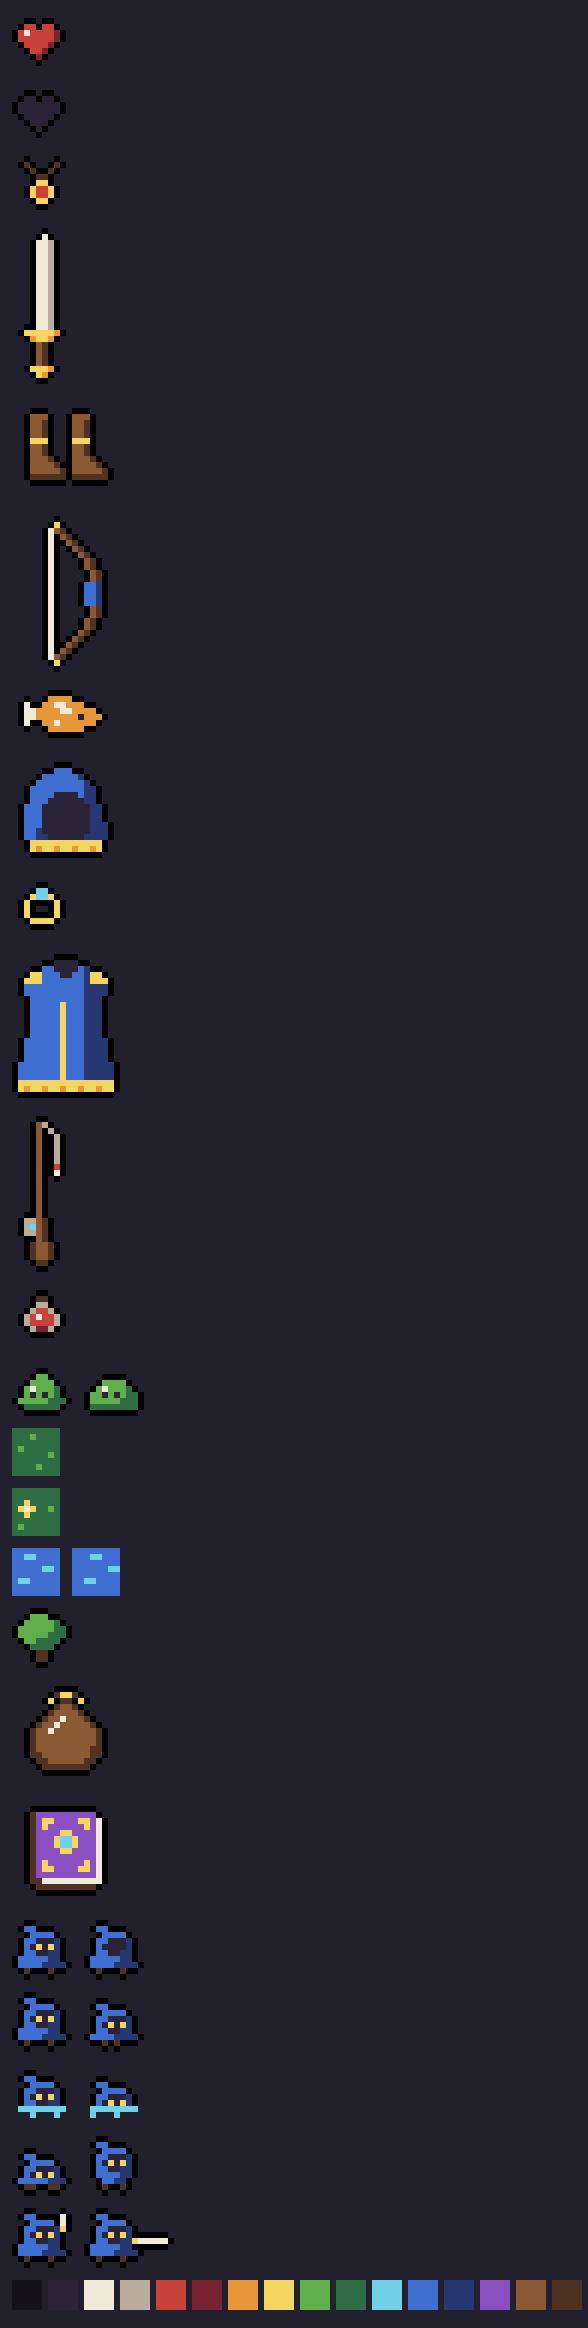
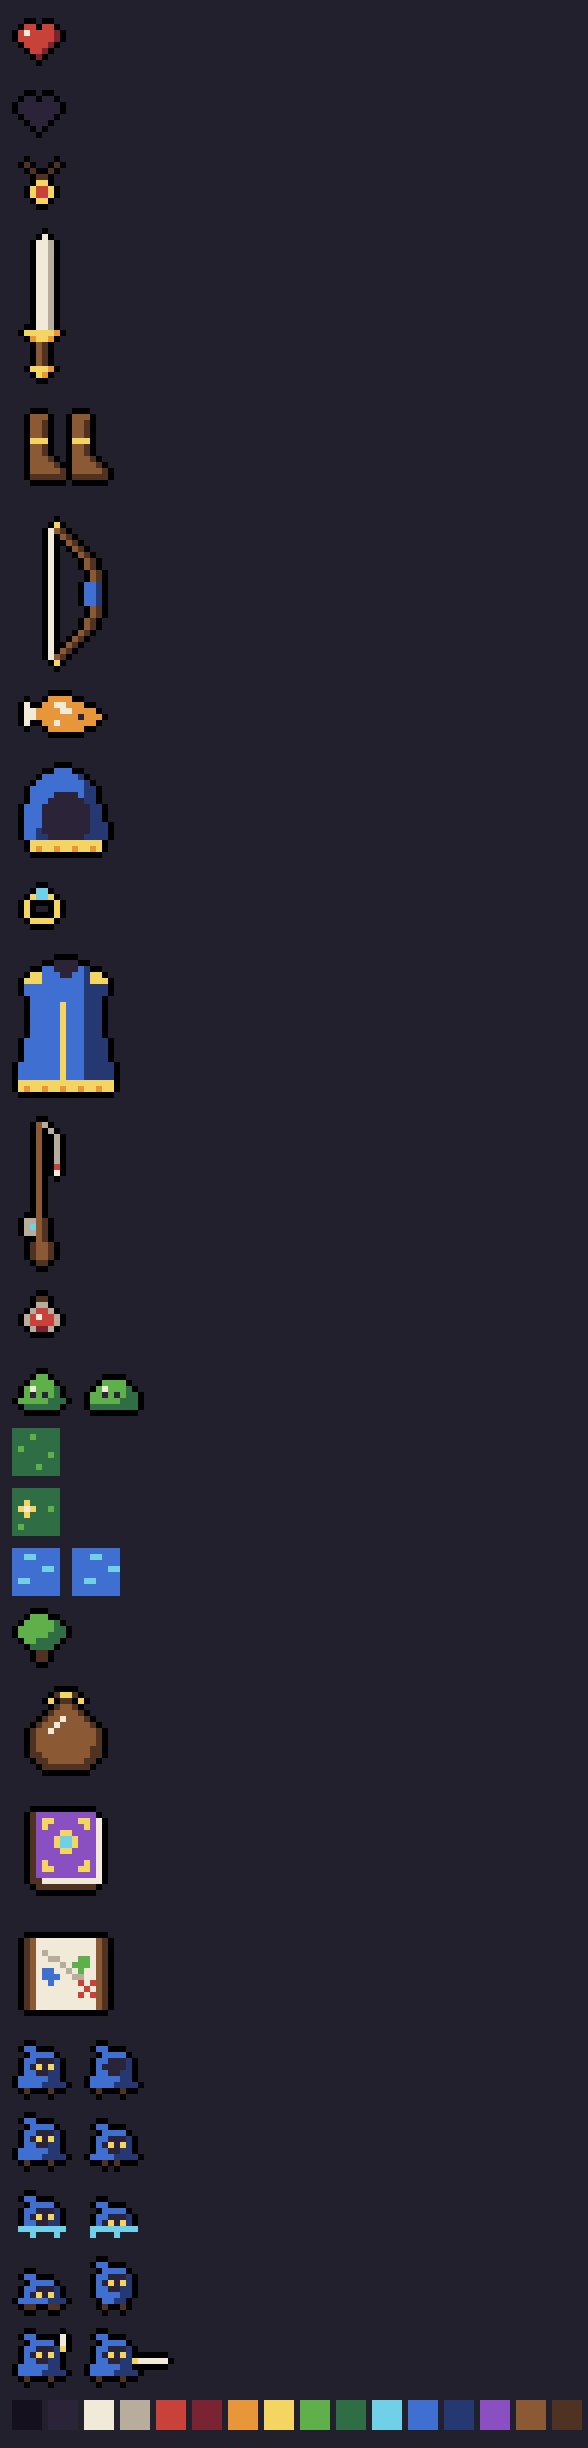
Add a map (M) to the menu bar, and grey out the journal for now
The map shows Greenhollow, the one area so far, drawn on parchment from the
tile map (ground, groves, water with shorelines, aged edges), with the camp
and a gold arrow for you and your facing, updated live while it's open.
New pixel-art map icon in art/ui.

The journal button is greyed out with a "Coming Soon" tooltip; L and the
discovery toasts are off (FEATURES.journal). Kills are still counted and
saved so nothing is lost when it's switched on.

Menu buttons no longer take focus when clicked, so Space and Enter can't
press them again.

Changed region(s): [[0.0, 0.0, 0.3061, 0.9897]]

diff --git a/src/ui/mapView.ts b/src/ui/mapView.ts
@@ -1,0 +1,129 @@
+// The map (M): the area drawn on parchment, with you and the camp marked. The terrain is drawn once
+// per map; the markers are redrawn every frame while the map is open.
+import { PAL } from "../data/palette.ts";
+import { AREA_NAME, CAMP, HALF, T, Tile } from "../data/world.ts";
+import type { Game } from "../game/game.ts";
+import type { TileMap } from "../world/map.ts";
+import { byId, markHandled } from "./dom.ts";
+
+/** Map pixels per tile. The canvas is shown at one UI pixel per map pixel, so it stays crisp. */
+const S = 3;
+
+const INK = {
+  paper: "#e8dcc0",
+  ground: "#cbc493",
+  groundDot: "#bdb682",
+  water: "#86a7c4",
+  shore: "#5f7fa0",
+  tree: "#7d8f5a",
+  treeDot: "#5f6f45",
+  edge: "rgba(90, 56, 38, 0.35)",
+};
+
+/** Deterministic per-tile noise, so the hand-drawn texture is the same every time. */
+const hash = (x: number, y: number) => { const s = Math.sin(x * 127.1 + y * 311.7) * 43758.5453; return s - Math.floor(s); };
+
+export interface MapView {
+  toggle(): void;
+  close(): void;
+  isOpen(): boolean;
+  /** Redraw the markers (call every frame; does nothing while closed). */
+  draw(): void;
+}
+
+function drawTerrain(c: HTMLCanvasElement, map: TileMap): void {
+  c.width = map.width * S;
+  c.height = map.height * S;
+  const g = c.getContext("2d")!;
+  g.fillStyle = INK.paper;
+  g.fillRect(0, 0, c.width, c.height);
+  const at = (x: number, y: number) => (x < 0 || y < 0 || x >= map.width || y >= map.height ? Tile.Tree : map.tiles[y]![x]!);
+  for (let y = 0; y < map.height; y++) for (let x = 0; x < map.width; x++) {
+    const t = at(x, y), px = x * S, py = y * S;
+    if (t === Tile.Water) {
+      g.fillStyle = INK.water;
+      g.fillRect(px, py, S, S);
+      // A darker line where the water meets land.
+      g.fillStyle = INK.shore;
+      if (at(x, y - 1) !== Tile.Water) g.fillRect(px, py, S, 1);
+      if (at(x, y + 1) !== Tile.Water) g.fillRect(px, py + S - 1, S, 1);
+      if (at(x - 1, y) !== Tile.Water) g.fillRect(px, py, 1, S);
+      if (at(x + 1, y) !== Tile.Water) g.fillRect(px + S - 1, py, 1, S);
+    } else if (t === Tile.Tree) {
+      g.fillStyle = INK.tree;
+      g.fillRect(px, py, S, S);
+      g.fillStyle = INK.treeDot;                             // a scatter of canopy dots
+      g.fillRect(px + Math.floor(hash(x, y) * S), py + Math.floor(hash(y, x) * S), 1, 1);
+    } else {
+      g.fillStyle = INK.ground;
+      g.fillRect(px, py, S, S);
+      if (hash(x, y) < 0.15) { g.fillStyle = INK.groundDot; g.fillRect(px + 1, py + 1, 1, 1); }
+    }
+  }
+  // Aged edges.
+  const grad = g.createRadialGradient(c.width / 2, c.height / 2, Math.min(c.width, c.height) * 0.35, c.width / 2, c.height / 2, Math.max(c.width, c.height) * 0.62);
+  grad.addColorStop(0, "rgba(0,0,0,0)");
+  grad.addColorStop(1, INK.edge);
+  g.fillStyle = grad;
+  g.fillRect(0, 0, c.width, c.height);
+}
+
+export function createMapView(g: Game): MapView {
+  const panel = byId("map"), base = byId<HTMLCanvasElement>("mapBase"), marks = byId<HTMLCanvasElement>("mapMarks");
+  byId("mapTitle").textContent = AREA_NAME.toUpperCase();
+  const mg = marks.getContext("2d")!;
+  /** A game position (cell top-left) -> map pixels, at the cell's centre. */
+  const toMap = (x: number, y: number) => [((x + HALF) / T) * S, ((y + HALF) / T) * S] as const;
+
+  const setMap = (map: TileMap) => {
+    drawTerrain(base, map);
+    marks.width = base.width;
+    marks.height = base.height;
+  };
+  setMap(g.map);
+  g.events.on("reset", ({ map }) => setMap(map));
+
+  /** A filled shape with a 1px ink outline. */
+  const shape = (points: (readonly [number, number])[], fill: string) => {
+    mg.beginPath();
+    points.forEach(([x, y], i) => (i ? mg.lineTo(x, y) : mg.moveTo(x, y)));
+    mg.closePath();
+    mg.fillStyle = fill;
+    mg.fill();
+    mg.strokeStyle = PAL.K;
+    mg.lineWidth = 1;
+    mg.stroke();
+  };
+
+  function drawMarks(): void {
+    mg.clearRect(0, 0, marks.width, marks.height);
+    // The camp: a little tent, and the fire beside it.
+    const [tx, ty] = toMap(CAMP.tent.x + CAMP.tent.w / 2 - HALF, CAMP.tent.y + CAMP.tent.h / 2 - HALF);
+    shape([[tx - 3.5, ty + 2.5], [tx, ty - 3.5], [tx + 3.5, ty + 2.5]], "#d8c8a0");
+    const [fx, fy] = toMap(CAMP.fire.x, CAMP.fire.y);
+    mg.fillStyle = PAL.K; mg.fillRect(Math.round(fx) - 2, Math.round(fy) - 2, 4, 4);
+    mg.fillStyle = PAL.O; mg.fillRect(Math.round(fx) - 1, Math.round(fy) - 1, 2, 2);
+    // You: a gold arrow pointing the way you're facing, gently pulsing.
+    const p = g.world.get(g.player, "transform"), motion = g.world.get(g.player, "motion");
+    if (!p || !motion) return;
+    const [px, py] = toMap(p.x, p.y), a = motion.aim, r = 4 + Math.sin(performance.now() / 200) * 0.5;
+    const pt = (ang: number, d: number) => [px + Math.cos(a + ang) * d, py + Math.sin(a + ang) * d] as const;
+    shape([pt(0, r), pt(2.5, r * 0.8), pt(0, -r * 0.2), pt(-2.5, r * 0.8)], PAL.Y);
+  }
+
+  function setOpen(open: boolean): void {
+    panel.hidden = !open;
+    if (open) drawMarks();
+  }
+
+  panel.addEventListener("mousedown", ev => { markHandled(ev); ev.preventDefault(); });   // and never take focus
+  panel.addEventListener("contextmenu", ev => ev.preventDefault());
+  panel.querySelector(".map-close")!.addEventListener("click", () => setOpen(false));
+
+  return {
+    toggle: () => setOpen(Boolean(panel.hidden)),
+    close: () => setOpen(false),
+    isOpen: () => !panel.hidden,
+    draw: () => { if (!panel.hidden) drawMarks(); },
+  };
+}

diff --git a/src/main.ts b/src/main.ts
@@ -16,6 +16,8 @@ import { bindOverlay, bindToasts, createResetBar } from "./ui/screens.ts";
 import { bakeItemIcons } from "./ui/sprites.ts";
 import { createJournal } from "./ui/journal.ts";
 import { createMenuBar } from "./ui/menuBar.ts";
+import { createMapView } from "./ui/mapView.ts";
+import { FEATURES } from "./data/features.ts";
 
 const g = createGame();
 const view = createRenderer(byId<HTMLCanvasElement>("screen"), g);
@@ -28,15 +30,20 @@ const labels = createLabels(g, view);
 const resetBar = createResetBar(g);
 bindOverlay(g);
 bindToasts(g);
+const MENU = { inventory: 0, map: 1, journal: 2 } as const;
 const menu = createMenuBar([
   { icon: "bag", label: "Inventory", key: "I", onClick: () => inventory.toggle() },
-  { icon: "book", label: "Journal", key: "L", onClick: () => journal.toggle() },
+  { icon: "map", label: "Map", key: "M", onClick: () => map.toggle() },
+  { icon: "book", label: "Journal", key: "L", onClick: () => journal.toggle(), ...(FEATURES.journal ? {} : { disabled: "Coming Soon" }) },
 ]);
-const journal = createJournal(g, unread => menu.setAlert(1, unread));
-const closePanels = () => { inventory.close(); journal.close(); };
+const map = createMapView(g);
+// The journal still loads and saves kill counts while it's switched off, so nothing is lost.
+const journal = createJournal(g, unread => menu.setAlert(MENU.journal, unread && FEATURES.journal));
+const toggleJournal = () => { if (FEATURES.journal) journal.toggle(); };
+const closePanels = () => { inventory.close(); journal.close(); map.close(); };
 g.events.on("reset", () => inventory.close());
 g.events.on("state", ({ state }) => { if (state === "dead") closePanels(); });
-const input = bindInput(g, { toggleInventory: inventory.toggle, toggleJournal: journal.toggle, closePanels });
+const input = bindInput(g, { toggleInventory: inventory.toggle, toggleJournal, toggleMap: map.toggle, closePanels });
 
 function resize(): void {
   const pixelSize = Math.max(2, Math.round(innerHeight / 300));
@@ -59,8 +66,10 @@ function frame(now: number): void {
   updateTarget(g, view, mouse, input.overUi());
   step(g, dt);
   view.render(g, g.hitstop > 0 ? 0 : dt);
-  menu.setActive(0, inventory.isOpen());
-  menu.setActive(1, journal.isOpen());
+  menu.setActive(MENU.inventory, inventory.isOpen());
+  menu.setActive(MENU.map, map.isOpen());
+  menu.setActive(MENU.journal, journal.isOpen());
+  map.draw();
   hud.draw(menu.width());
   labels.draw();
   resetBar.draw();

diff --git a/src/styles.css b/src/styles.css
@@ -165,3 +165,33 @@ canvas { display: block; position: fixed; inset: 0; width: 100%; height: 100%; i
   text-shadow: var(--u) var(--u) 0 var(--ink);
 }
 .journal-close:hover { color: var(--bone); }
+
+/* Greyed out: not available yet. */
+.bar-btn.disabled { cursor: default; background: #1a1622; }
+.bar-btn.disabled img { filter: grayscale(1) brightness(0.55); }
+.bar-btn.disabled .key { opacity: 0.45; }
+.bar-btn.disabled:hover { box-shadow: inset 0 0 0 1px var(--oak); }
+.bar-btn.disabled:hover img { filter: grayscale(1) brightness(0.55); }
+.bar-btn.disabled:active img { transform: none; }
+
+/* ---------- Map ---------- */
+#map {
+  position: fixed; left: 50%; top: 50%; transform: translate(-50%, -50%); z-index: 20; cursor: default;
+  padding: calc(var(--u) * 4) calc(var(--u) * 6) calc(var(--u) * 6);
+  background: linear-gradient(#5a3826, #3a2418);                 /* a wooden frame */
+  border: 2px solid var(--ink);
+  box-shadow: inset 0 0 0 1px var(--oak), inset 0 0 0 3px #2a1810, 0 12px 32px rgb(0 0 0 / 0.6);
+}
+#map[hidden] { display: none; }
+#map h2 {
+  margin: 0 0 calc(var(--u) * 4); text-align: center; color: var(--glow);
+  font-size: calc(var(--u) * 12); line-height: calc(var(--u) * 15); text-shadow: var(--u) var(--u) 0 var(--ink);
+}
+#map .map-frame { position: relative; width: calc(var(--u) * 192); height: calc(var(--u) * 132); border: 1px solid var(--ink); box-shadow: 0 0 0 1px #b9a682; }
+#map canvas { position: absolute; inset: 0; width: 100%; height: 100%; image-rendering: pixelated; }
+.map-close {
+  position: absolute; top: calc(var(--u) * 1); right: calc(var(--u) * 2); padding: 0 calc(var(--u) * 2);
+  background: none; border: none; color: var(--glow); font-size: calc(var(--u) * 6); line-height: calc(var(--u) * 9); cursor: pointer;
+  text-shadow: var(--u) var(--u) 0 var(--ink);
+}
+.map-close:hover { color: var(--bone); }

diff --git a/src/ui/menuBar.ts b/src/ui/menuBar.ts
@@ -9,6 +9,8 @@ export interface MenuButton {
   label: string;
   key: string;
   onClick(): void;
+  /** Greyed out and inert; the tooltip says this instead (e.g. "Coming Soon"). */
+  disabled?: string;
 }
 
 export interface MenuBar {
@@ -29,8 +31,9 @@ export function createMenuBar(buttons: MenuButton[]): MenuBar {
   const els = buttons.map(b => {
     const el = document.createElement("button");
     el.type = "button";
-    el.className = "bar-btn";
-    el.setAttribute("aria-label", `${b.label} (${b.key})`);
+    el.className = `bar-btn${b.disabled ? " disabled" : ""}`;
+    el.setAttribute("aria-label", b.disabled ? `${b.label}: ${b.disabled}` : `${b.label} (${b.key})`);
+    if (b.disabled) el.setAttribute("aria-disabled", "true");
     const img = new Image();
     img.src = spriteFrame(b.icon, "idle").toDataURL();
     img.alt = "";
@@ -39,9 +42,11 @@ export function createMenuBar(buttons: MenuButton[]): MenuBar {
     key.className = "key";
     key.textContent = b.key;
     el.append(img, key);
-    el.addEventListener("click", () => b.onClick());
+    // Clicking never focuses the button, or Space (jump) and Enter (attack) would press it again.
+    el.addEventListener("mousedown", ev => ev.preventDefault());
+    el.addEventListener("click", () => { if (!b.disabled) b.onClick(); });
     el.addEventListener("mouseenter", () => {
-      tip.textContent = `${b.label} (${b.key})`;
+      tip.textContent = b.disabled ?? `${b.label} (${b.key})`;
       tip.hidden = false;
       tip.style.right = `${bar.getBoundingClientRect().right - el.getBoundingClientRect().right}px`;
     });

diff --git a/tests/journal.test.ts b/tests/journal.test.ts
@@ -1,5 +1,6 @@
 import { describe, expect, it } from "vitest";
 import { BESTIARY, emptyJournal } from "../src/data/bestiary.ts";
+import { FEATURES } from "../src/data/features.ts";
 import { createGame, setState, type GameEvents } from "../src/game/game.ts";
 import { resetGame } from "../src/game/reset.ts";
 import { step } from "../src/systems/index.ts";
@@ -40,7 +41,9 @@ describe("journal", () => {
     kill(g, "frost");
     expect(g.journal).toEqual({ slime: 2, ember: 0, frost: 1, storm: 0 });
     expect(events).toEqual([{ id: "slime", first: true }, { id: "slime", first: false }, { id: "frost", first: true }]);
-    expect(toasts.filter(t => t.startsWith("New journal entry"))).toEqual(["New journal entry: Slime", "New journal entry: Frost Mage"]);
+    // Discoveries are announced only while the journal is switched on.
+    expect(toasts.filter(t => t.startsWith("New journal entry")))
+      .toEqual(FEATURES.journal ? ["New journal entry: Slime", "New journal entry: Frost Mage"] : []);
   });
 
   it("survives a reset (it's a record across runs)", () => {

diff --git a/index.html b/index.html
@@ -28,6 +28,11 @@
   </div>
   <button class="journal-close" type="button" aria-label="Close">x</button>
 </div>
+<div id="map" data-ui hidden>
+  <h2 id="mapTitle"></h2>
+  <div class="map-frame"><canvas id="mapBase"></canvas><canvas id="mapMarks"></canvas></div>
+  <button class="map-close" type="button" aria-label="Close">x</button>
+</div>
 <div id="menuBar" data-ui></div>
 <div id="held" hidden></div>
 <div id="tooltip" hidden></div>
@@ -39,7 +44,7 @@
   <div>
     <h1>SIMPLICITY</h1>
     <p id="message">Press any key to begin</p>
-    <p class="keys">WASD / arrows: move &middot; double-tap: dash<br>Mouse: aim &middot; Click / J: attack &middot; Space: jump<br>I: inventory &middot; L: journal &middot; Hold R: reset</p>
+    <p class="keys">WASD / arrows: move &middot; double-tap: dash<br>Mouse: aim &middot; Click / J: attack &middot; Space: jump<br>I: inventory &middot; M: map &middot; Hold R: reset</p>
   </div>
 </div>
 <script type="module" src="/src/main.ts"></script>

diff --git a/src/systems/enemies.ts b/src/systems/enemies.ts
@@ -4,6 +4,7 @@ import { SLIME, SPAWNING } from "../data/enemies.ts";
 import { XP } from "../data/progression.ts";
 import { damagePlayer, grantXP } from "../game/combat.ts";
 import { BESTIARY, type BestiaryId } from "../data/bestiary.ts";
+import { FEATURES } from "../data/features.ts";
 import { toast, type Game } from "../game/game.ts";
 import { heroParts } from "../game/hero.ts";
 import { dropLoot, spawnEnemy, spawnPotion } from "../game/spawn.ts";
@@ -73,6 +74,6 @@ export function spawnerSystem(g: Game, dt: number): void {
 function recordKill(g: Game, id: BestiaryId): void {
   const first = g.journal[id] === 0;
   g.journal[id]++;
-  if (first) toast(g, `New journal entry: ${BESTIARY.find(b => b.id === id)!.name}`, true);
+  if (first && FEATURES.journal) toast(g, `New journal entry: ${BESTIARY.find(b => b.id === id)!.name}`, true);
   g.events.emit("journal", { id, first });
 }

diff --git a/src/input/input.ts b/src/input/input.ts
@@ -7,6 +7,7 @@ import { isHandled, isUiTarget } from "../ui/dom.ts";
 export interface InputHooks {
   toggleInventory(): void;
   toggleJournal(): void;
+  toggleMap(): void;
   closePanels(): void;
 }
 
@@ -37,6 +38,7 @@ export function bindInput(g: Game, hooks: InputHooks): { mouse(): { x: number; y
     }
     if (k === "i" || k === "tab") { e.preventDefault(); if (!e.repeat) hooks.toggleInventory(); return; }
     if (k === "l") { if (!e.repeat) hooks.toggleJournal(); return; }
+    if (k === "m") { if (!e.repeat) hooks.toggleMap(); return; }
     if (k === "escape") { hooks.closePanels(); return; }
     if (!e.repeat) {
       if (k === "j" || k === "enter") input.attackPressed = true;

diff --git a/src/ui/journal.ts b/src/ui/journal.ts
@@ -119,7 +119,7 @@ export function createJournal(g: Game, onNew: (unread: boolean) => void): Journa
     if (first) { selected = id; if (panel.hidden) onNew(true); }
     if (!panel.hidden) render();
   });
-  panel.addEventListener("mousedown", ev => markHandled(ev));
+  panel.addEventListener("mousedown", ev => { markHandled(ev); if (ev.target instanceof HTMLButtonElement) ev.preventDefault(); });
   panel.addEventListener("contextmenu", ev => ev.preventDefault());
   panel.querySelector(".journal-close")!.addEventListener("click", () => setOpen(false));
 

diff --git a/src/data/world.ts b/src/data/world.ts
@@ -3,6 +3,9 @@ export const T = 8;
 /** Half a cell: add to a position to get the centre of its cell. */
 export const HALF = T / 2;
 
+/** The one area so far, as named on the map. */
+export const AREA_NAME = "Greenhollow";
+
 export const MAP_W = 64;
 export const MAP_H = 44;
 export const MAP_SEED = 7;

diff --git a/src/data/features.ts b/src/data/features.ts
@@ -1,0 +1,5 @@
+// Features that are built but not switched on yet.
+export const FEATURES = {
+  /** The bestiary journal: kills are still counted and saved, but the book is greyed out ("Coming Soon"). */
+  journal: false,
+} as const;

diff --git a/README.md b/README.md
@@ -32,9 +32,11 @@ CI runs lint, typecheck, tests and the build on every push and pull request; a p
 
 ## Play
 
-WASD or arrows to move (double-tap a direction to dash), the mouse to aim, Space to jump, J or click to attack in the aimed direction. The buttons in the bottom-right open your inventory (I) and journal (L). Walk into water to swim. Hold R for a second to restart the run. Slimes chase you, and potions restore two hearts.
+WASD or arrows to move (double-tap a direction to dash), the mouse to aim, Space to jump, J or click to attack in the aimed direction. The buttons in the bottom-right open your inventory (I) and the map (M). Walk into water to swim. Hold R for a second to restart the run. Slimes chase you, and potions restore two hearts.
 
-**Journal:** a bestiary of every enemy. Each starts as a black silhouette; kill one and its page fills in with its portrait, a little about it, its health, experience, abilities and drops, and how many you've defeated. Your discoveries are saved in the browser and kept across runs. The book button glows when there's a new entry.
+**Map:** press M (or the map button) for a parchment map of Greenhollow, the one area so far, showing where you are and which way you're facing, and the camp.
+
+**Journal (coming soon):** greyed out on the menu bar for now; it's built and switched off in `src/data/features.ts`. A bestiary of every enemy. Each starts as a black silhouette; kill one and its page fills in with its portrait, a little about it, its health, experience, abilities and drops, and how many you've defeated. Your discoveries are saved in the browser and kept across runs. The book button glows when there's a new entry.
 
 **Combat text and crits:** WoW-style numbers float up as pixel text: white for your hits, red for damage you take, green for healing, lilac for XP. Every hit (sword, punch, arrow) has a 10% chance to **crit** for double damage, shown as a big gold number with a "!", with a little extra hitstop, shake and gold sparks.
 
